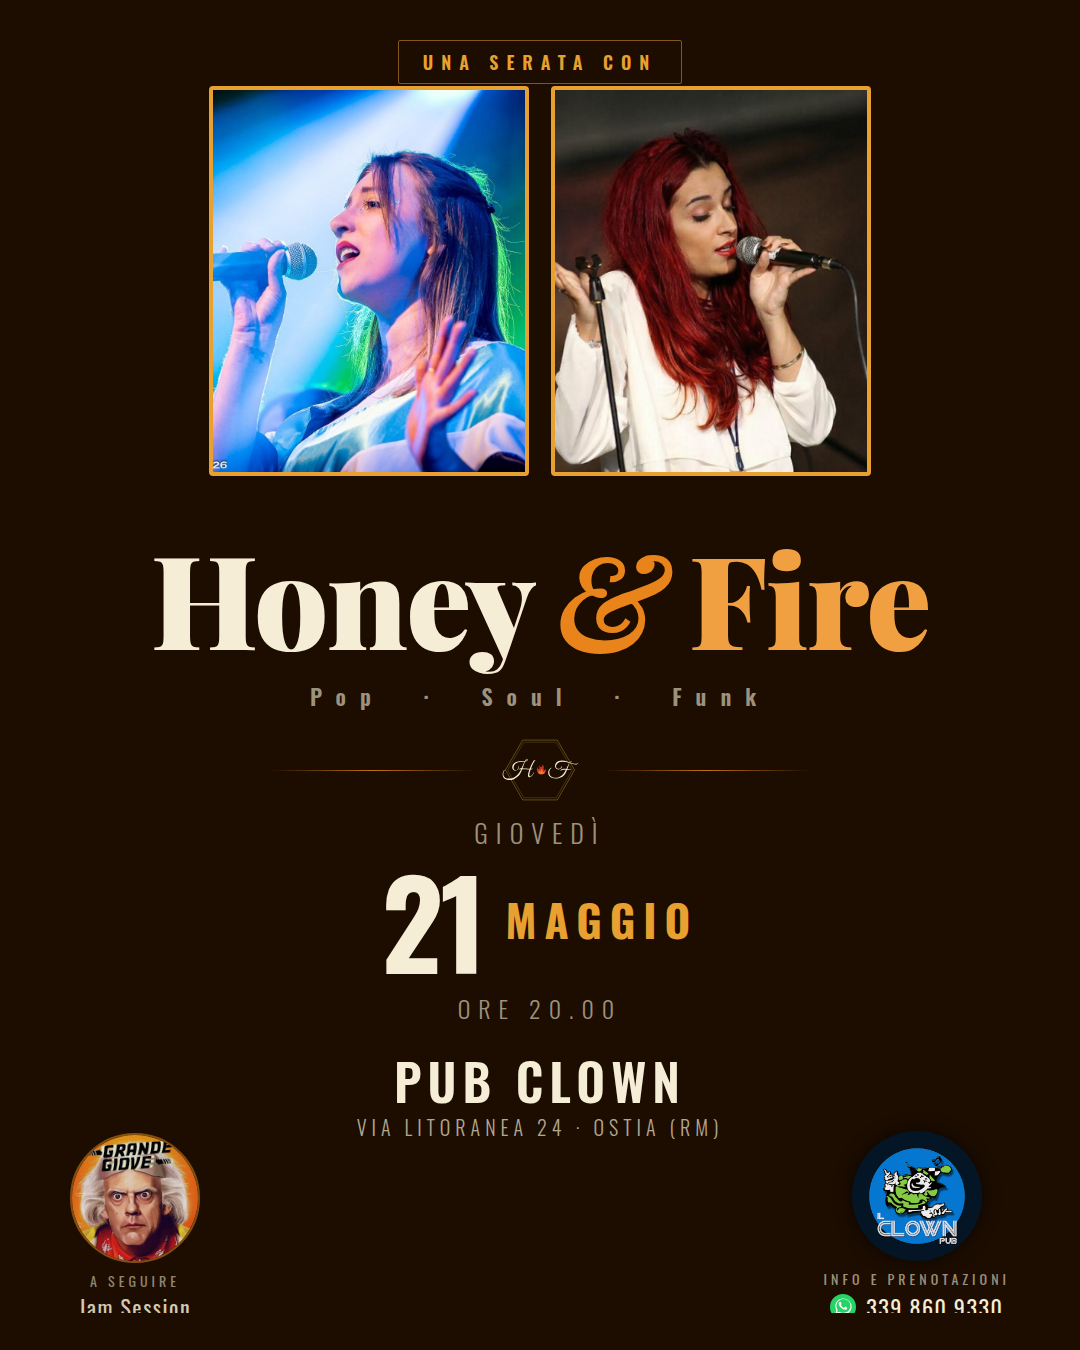
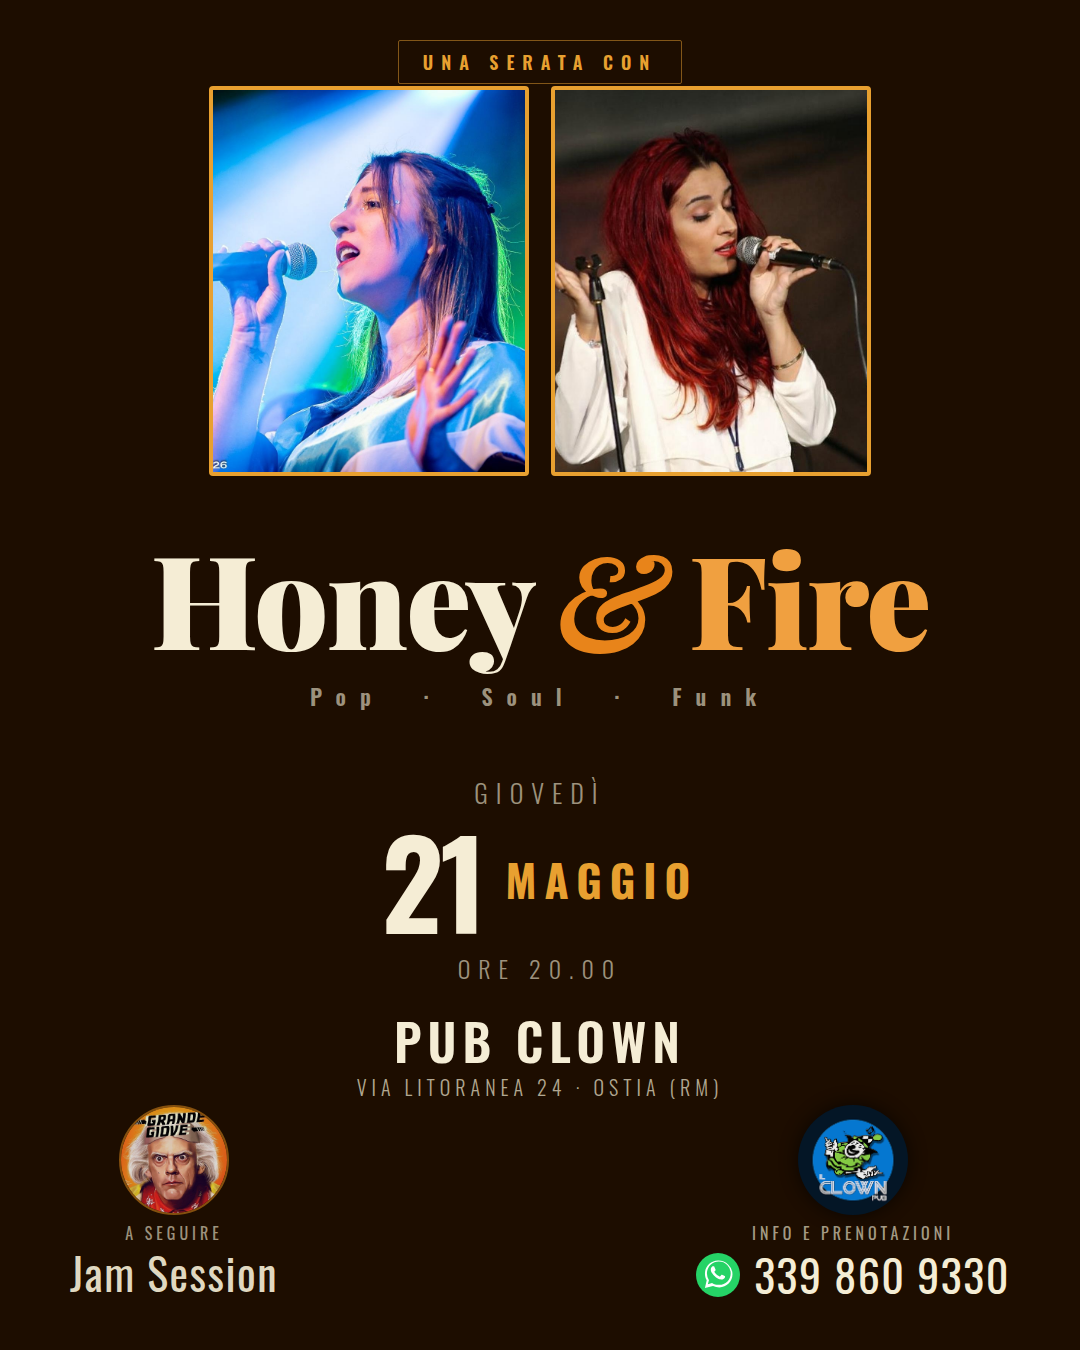
IG locandina: bigger badge text, top-anchored badges, drop H+F divider
* Doubled the .jam-title and .venue-info-number font-size to 44px
  (was 22px) and bumped the WhatsApp icon to match. The labels above
  ("a seguire", "Info e prenotazioni") went from 14px → 16px.
* Switched the badges from `bottom: 30px` to `top: 1105px` so Chrome
  headless can't shave the trailing line off when screenshotting.
* Dropped the H+F hexagon divider — redundant with the big "Honey &
  Fire" wordmark right above and freed vertical space for the bigger
  badge text.
* Shifted date-block (820 → 780) and venue (1055 → 1015) up so the
  larger bottom badges fit cleanly with no overlap or clipping.
* Logos eased from 130 → 110 to balance the heavier text.

Changed region(s): [[0.3361, 0.56, 0.6722, 0.84], [0.6417, 0.8089, 0.9472, 0.9956], [0.0611, 0.8089, 0.275, 0.9956]]

diff --git a/locandina-260521-instagram.html b/locandina-260521-instagram.html
@@ -127,7 +127,7 @@
   /* Date */
   .date-block {
     position: absolute;
-    top: 820px;
+    top: 780px;
     left: 0;
     right: 0;
     text-align: center;
@@ -177,7 +177,7 @@
   /* Venue */
   .venue {
     position: absolute;
-    top: 1055px;
+    top: 1015px;
     left: 0;
     right: 0;
     text-align: center;
@@ -201,10 +201,13 @@
   }
 
   /* Bottom-left: Grande Giove portrait stacked above the "a seguire /
-     Jam Session" label. The logo dominates; the label sits underneath. */
+     Jam Session" label. Anchored by `top` (not `bottom`) so Chrome's
+     headless screenshot can't shave the trailing line off — pulling
+     the badge ~18px above the canvas bottom keeps the title text
+     fully inside the 1350-tall frame. */
   .jam-badge {
     position: absolute;
-    bottom: 30px;
+    top: 1105px;
     left: 70px;
     display: flex;
     flex-direction: column;
@@ -212,35 +215,36 @@
     gap: 10px;
   }
   .jam-img {
-    width: 130px;
-    height: 130px;
+    width: 110px;
+    height: 110px;
     border-radius: 50%;
     object-fit: cover;
     border: 2px solid rgba(232,140,20,0.6);
     filter: brightness(0.88) saturate(0.95);
   }
-  .jam-text { text-align: center; line-height: 1.2; }
+  .jam-text { text-align: center; line-height: 1.1; }
   .jam-label {
-    font-size: 14px;
+    font-size: 16px;
     font-weight: 400;
     letter-spacing: 4px;
     text-transform: uppercase;
-    color: rgba(245,237,213,0.55);
+    color: rgba(245,237,213,0.6);
   }
   .jam-title {
-    font-weight: 400;
-    font-size: 22px;
+    font-weight: 500;
+    font-size: 44px;
     letter-spacing: 1.5px;
-    color: rgba(245,237,213,0.85);
-    margin-top: 4px;
+    color: rgba(245,237,213,0.92);
+    margin-top: 6px;
   }
 
   /* Bottom-right: Pub Clown logo stacked above the WhatsApp prenotazioni
      phone number. column-reverse keeps the DOM order link → logo while
-     visually placing the logo on top. */
+     visually placing the logo on top. Same top-anchor trick as
+     .jam-badge so the bottom line never gets shaved by the screenshot. */
   .venue-badge {
     position: absolute;
-    bottom: 30px;
+    top: 1105px;
     right: 70px;
     display: flex;
     flex-direction: column-reverse;
@@ -249,33 +253,33 @@
   }
   .venue-contact { text-decoration: none; text-align: center; color: inherit; }
   .venue-info-label {
-    font-size: 14px;
+    font-size: 16px;
     font-weight: 400;
     letter-spacing: 4px;
     text-transform: uppercase;
-    color: rgba(245,237,213,0.6);
-    line-height: 1.2;
-    margin-bottom: 6px;
+    color: rgba(245,237,213,0.65);
+    line-height: 1.1;
+    margin-bottom: 8px;
   }
   .venue-info-number {
     display: flex;
     align-items: center;
     justify-content: center;
-    gap: 10px;
-    font-size: 22px;
-    font-weight: 400;
+    gap: 14px;
+    font-size: 44px;
+    font-weight: 500;
     letter-spacing: 1.5px;
     color: #f5edd5;
-    line-height: 1.2;
+    line-height: 1.1;
   }
   .venue-info-number .wa-icon-small {
-    width: 26px;
-    height: 26px;
+    width: 44px;
+    height: 44px;
     flex-shrink: 0;
   }
   .venue-logo {
-    width: 130px;
-    height: 130px;
+    width: 110px;
+    height: 110px;
     border-radius: 50%;
     object-fit: cover;
     opacity: 0.92;
@@ -289,19 +293,13 @@
   <div class="top-badge"><span>Una serata con</span></div>
 
   <div class="singers">
-    <img class="singer singer-honey" src="images/fulls/08.jpg?v=58dfdee" alt="Honey – Francesca" />
-    <img class="singer singer-fire"  src="images/fulls/09.jpg?v=58dfdee" alt="Fire – Giorgia" />
+    <img class="singer singer-honey" src="images/fulls/08.jpg?v=2b87487" alt="Honey – Francesca" />
+    <img class="singer singer-fire"  src="images/fulls/09.jpg?v=2b87487" alt="Fire – Giorgia" />
   </div>
 
   <h1 class="band-name">Honey <span class="amp">&amp;</span> <span class="fire">Fire</span></h1>
 
   <div class="tagline">Pop &nbsp;·&nbsp; Soul &nbsp;·&nbsp; Funk</div>
-
-  <div class="divider">
-    <div class="divider-line"></div>
-    <img class="divider-logo" src="logo-dark.svg" alt="Honey & Fire" />
-    <div class="divider-line"></div>
-  </div>
 
   <div class="date-block">
     <span class="date-day">Giovedì</span>
@@ -318,7 +316,7 @@
   </div>
 
   <div class="jam-badge">
-    <img class="jam-img" src="images/grande_giove.png" alt="Grande Giove" />
+    <img class="jam-img" src="images/grande_giove.png?v=2b87487" alt="Grande Giove" />
     <div class="jam-text">
       <div class="jam-label">a seguire</div>
       <div class="jam-title">Jam Session</div>
@@ -336,7 +334,7 @@
         <span>339 860 9330</span>
       </div>
     </a>
-    <img class="venue-logo" src="images/pub_clown_logo.png" alt="Il Clown Pub" />
+    <img class="venue-logo" src="images/pub_clown_logo.png?v=2b87487" alt="Il Clown Pub" />
   </div>
 
 </div>
